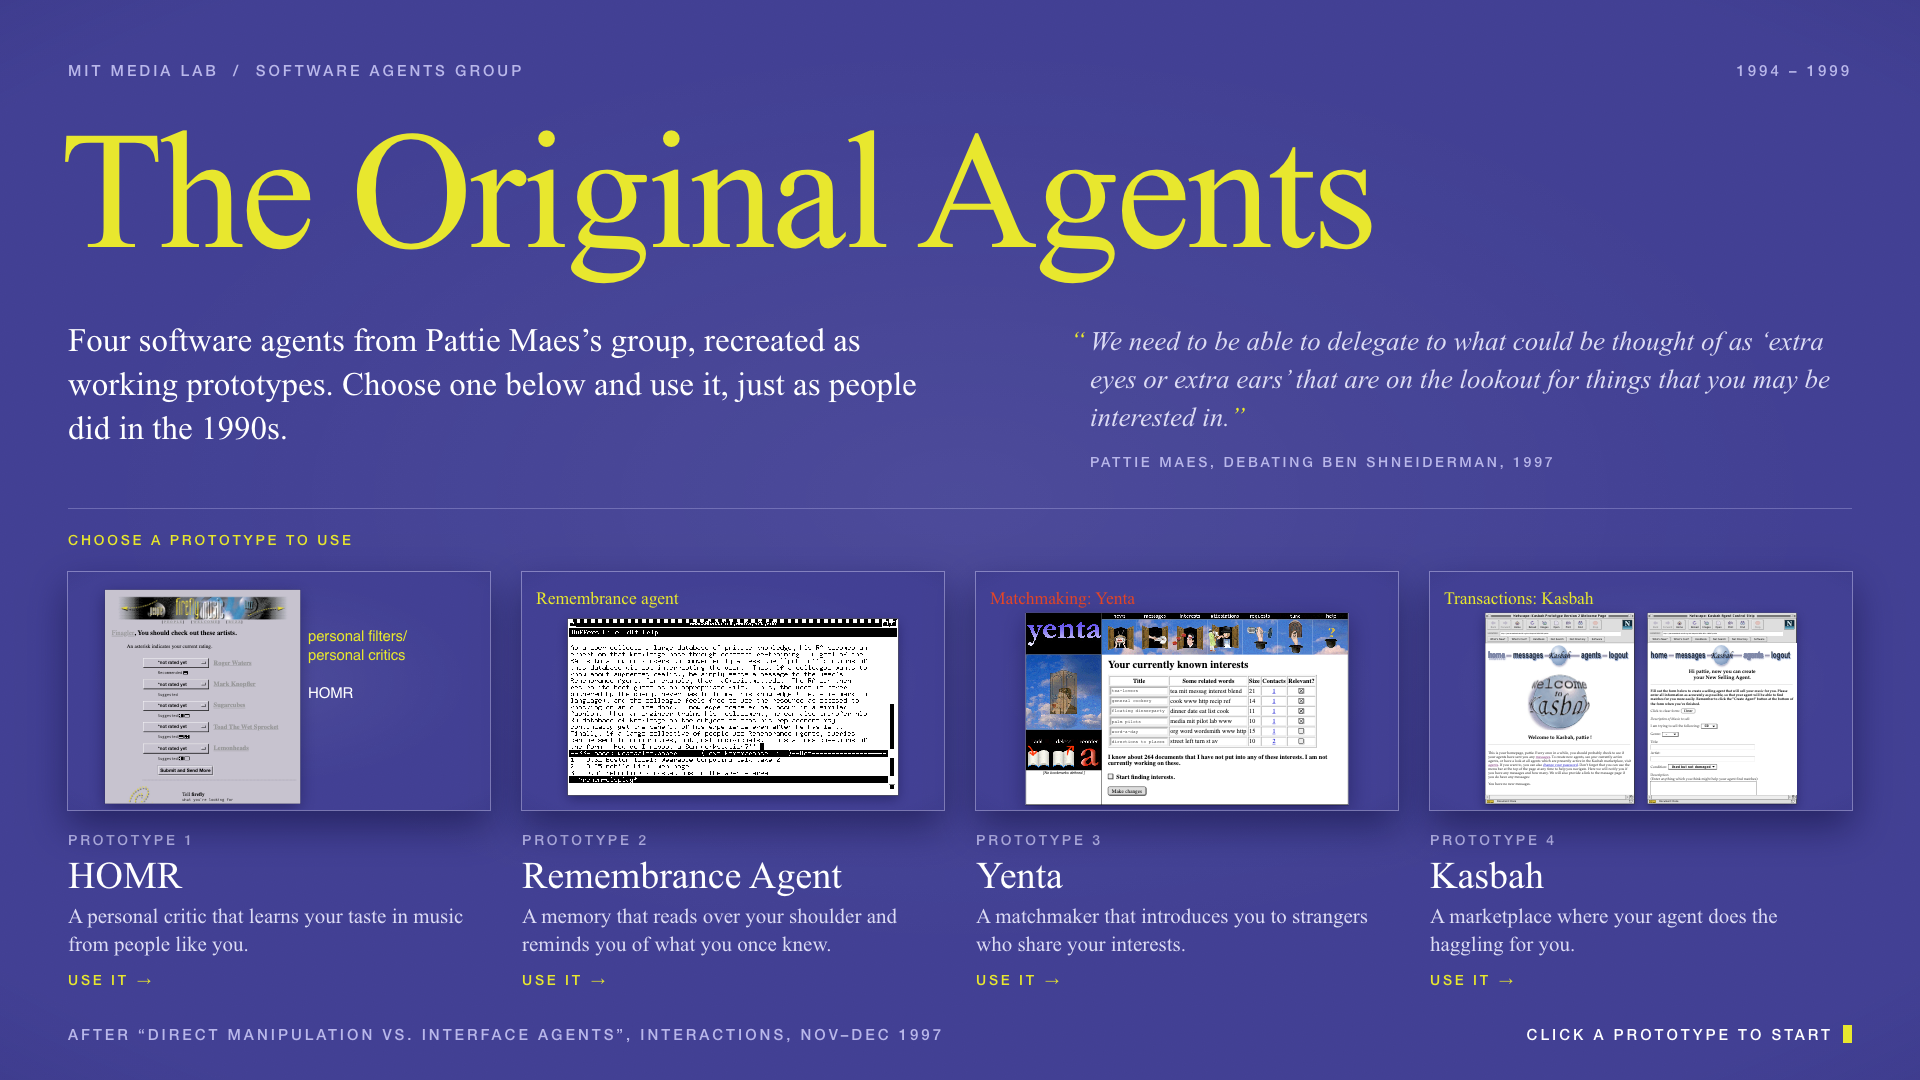
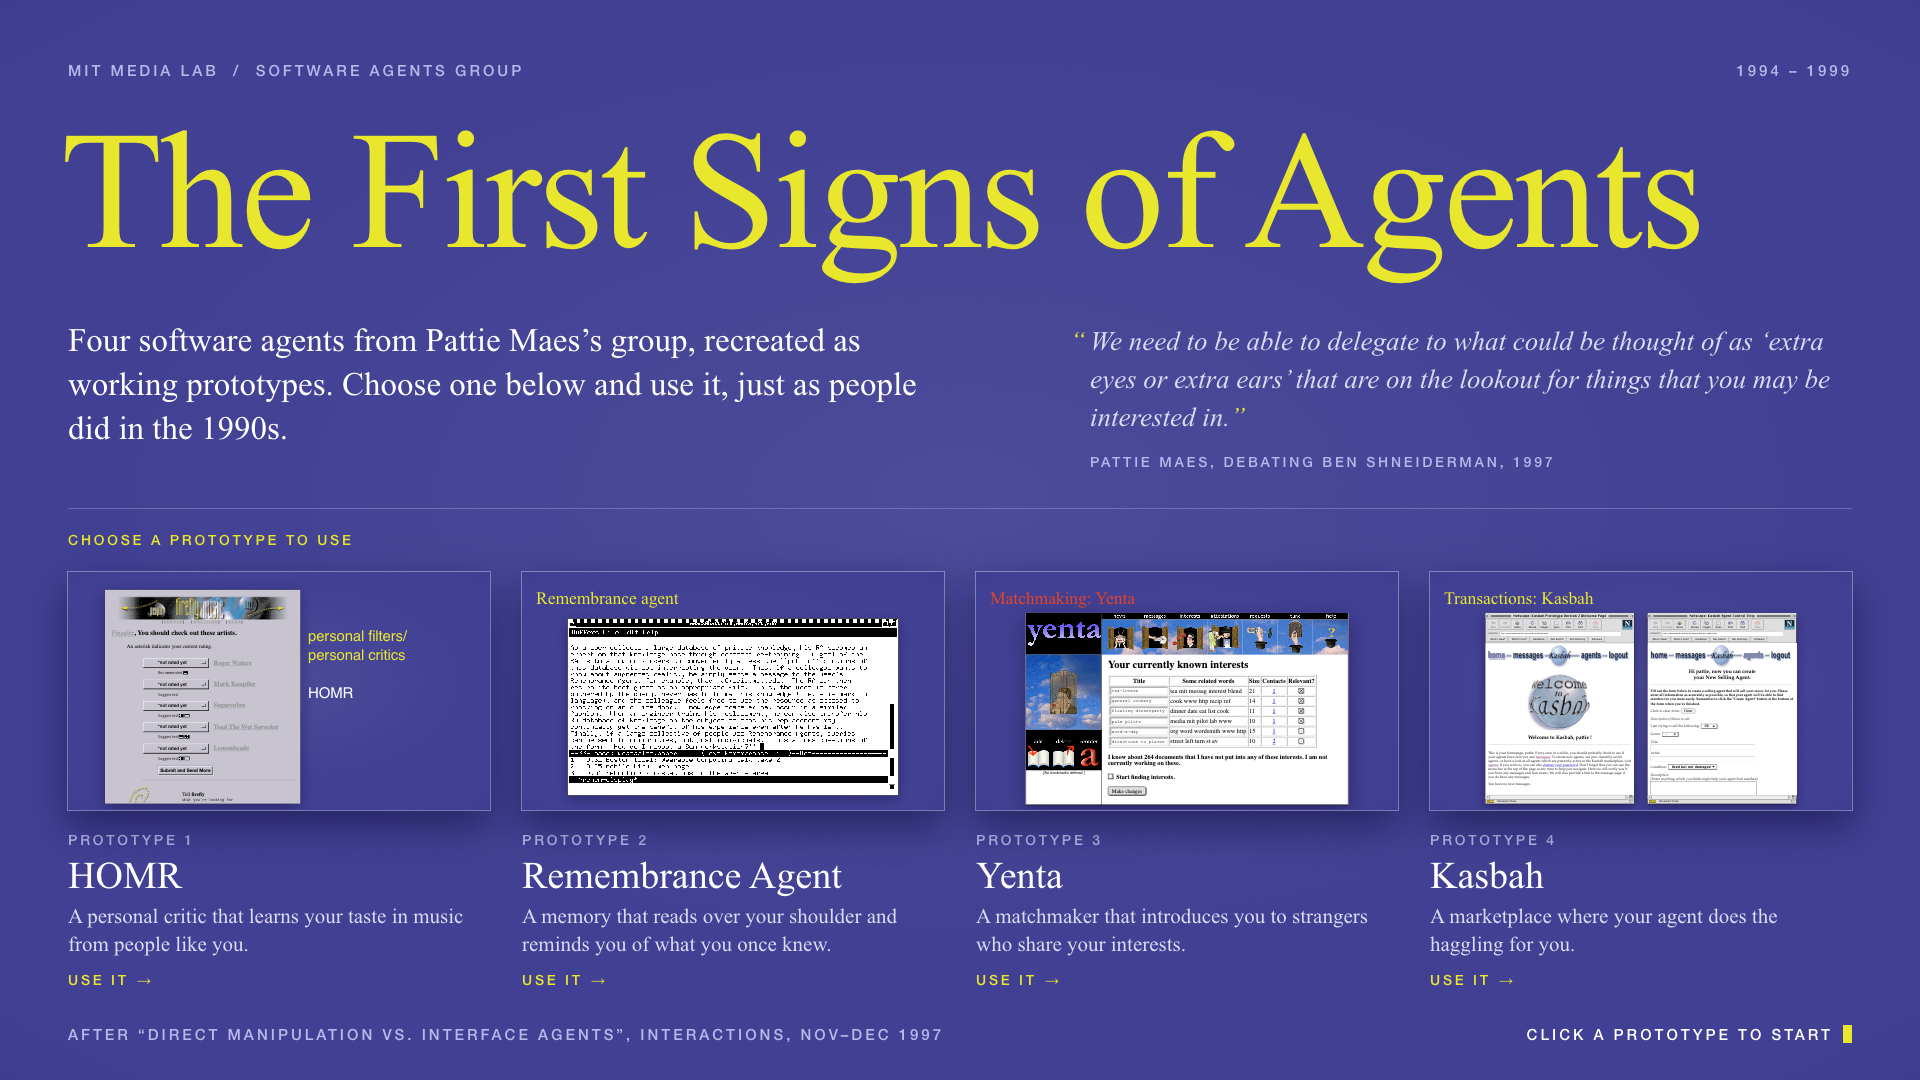
Rename the exhibit to The First Signs of Agents
The new name is on both start pages, the "back" link on every prototype,
the page titles and the README, whose start-page screenshot is retaken.

Changed region(s): [[0.1875, 0.1222, 0.9062, 0.275]]

diff --git a/classic/server.js b/classic/server.js
@@ -88,7 +88,7 @@ function band(agent, req) {
   return '<table border="0" cellspacing="0" cellpadding="0" width="100%" bgcolor="' + C.indigo + '"><tr><td>' +
     '<table border="0" cellspacing="0" cellpadding="0" width="100%"><tr>' +
     '<td width="16">' + spacer(16, 1) + '</td>' +
-    '<td valign="top" nowrap>' + spacer(1, 7) + '<br>' + cap(link(BASE + '/', '&laquo;&nbsp;THE ORIGINAL AGENTS')) + '</td>' +
+    '<td valign="top" nowrap>' + spacer(1, 7) + '<br>' + cap(link(BASE + '/', '&laquo;&nbsp;THE FIRST SIGNS OF AGENTS')) + '</td>' +
     '<td valign="top" align="right" nowrap>' + spacer(1, 7) + '<br>' +
     cap(link(BASE + '/' + agent.key + '/', 'START OVER') + ' &nbsp; &nbsp; &nbsp; ' + link(BASE + '/' + prev.key + '/', '&laquo;') + ' &nbsp; ' +
       '<font color="#ffffff">' + (i + 1) + '</font> / ' + n + ' &nbsp; ' + link(BASE + '/' + next.key + '/', '&raquo;')) + '</td>' +
@@ -143,7 +143,7 @@ function startPage(req) {
     '<table border="0" cellspacing="0" cellpadding="0" width="100%"><tr>' +
     '<td>' + spacer(1, 16) + '<br>' + cap('MIT MEDIA LAB &nbsp;/&nbsp; SOFTWARE AGENTS GROUP') + '</td>' +
     '<td align="right">' + spacer(1, 16) + '<br>' + cap('1994 - 1999') + '</td></tr></table>' +
-    spacer(1, 8) + '<br><font face="Times" size="7" class="big" color="' + C.yellow + '">The Original Agents</font><br>' + spacer(1, 10) + '<br>' +
+    spacer(1, 8) + '<br><font face="Times" size="7" class="big" color="' + C.yellow + '">The First Signs of Agents</font><br>' + spacer(1, 10) + '<br>' +
     '<table border="0" cellspacing="0" cellpadding="0" width="100%"><tr>' +
     '<td valign="top" width="50%"><font face="Times" size="4" class="lede" color="#ffffff">Four software agents from Pattie Maes’s group, recreated as working prototypes. Choose one below and use it, just as people did in the 1990s.</font></td>' +
     '<td width="40">' + spacer(40, 1) + '</td>' +
@@ -154,7 +154,7 @@ function startPage(req) {
     '<table border="0" cellspacing="0" cellpadding="0" width="100%"><tr>' + cols + '</tr></table>' +
     spacer(1, 14) + '<br>' + cap('AFTER "DIRECT MANIPULATION VS. INTERFACE AGENTS", INTERACTIONS, NOV-DEC 1997') + '<br>' + spacer(1, 10) +
     '</td><td width="22">' + spacer(22, 1) + '</td></tr></table>';
-  return document_(req, { title: 'The Original Agents', css: css, html: html });
+  return document_(req, { title: 'The First Signs of Agents', css: css, html: html });
 }
 
 // ---- HTTP --------------------------------------------------------------------------

diff --git a/index.html b/index.html
@@ -2,7 +2,7 @@
 <html lang="en">
 <head>
 <meta charset="utf-8">
-<title>The Original Agents</title>
+<title>The First Signs of Agents</title>
 <meta name="viewport" content="width=device-width, initial-scale=1">
 <link rel="stylesheet" href="css/shell.css">
 <style>
@@ -54,7 +54,7 @@
   <div class="kicker">MIT Media Lab &nbsp;/&nbsp; Software Agents Group</div>
   <div class="years">1994 &ndash; 1999</div>
 
-  <h1 class="deck-title">The Original Agents</h1>
+  <h1 class="deck-title">The First Signs of Agents</h1>
   <p class="lede">Four software agents from Pattie Maes&rsquo;s group, recreated as working prototypes. Choose one below and use it, just as people did in the 1990s.</p>
 
   <blockquote class="quote">

diff --git a/js/shell.js b/js/shell.js
@@ -33,7 +33,7 @@
     var back = document.createElement('a');
     back.className = 'deck-back';
     back.href = 'index.html';
-    back.innerHTML = '<span class="arrow">&larr;</span>The Original Agents';
+    back.innerHTML = '<span class="arrow">&larr;</span>The First Signs of Agents';
     stage.appendChild(back);
 
     var count = document.createElement('div');

diff --git a/kasbah.html b/kasbah.html
@@ -2,7 +2,7 @@
 <html lang="en">
 <head>
 <meta charset="utf-8">
-<title>Kasbah — The Original Agents</title>
+<title>Kasbah — The First Signs of Agents</title>
 <meta name="viewport" content="width=device-width, initial-scale=1">
 <link rel="stylesheet" href="css/shell.css">
 <link rel="stylesheet" href="css/kasbah.css">

diff --git a/yenta.html b/yenta.html
@@ -2,7 +2,7 @@
 <html lang="en">
 <head>
 <meta charset="utf-8">
-<title>Yenta — The Original Agents</title>
+<title>Yenta — The First Signs of Agents</title>
 <meta name="viewport" content="width=device-width, initial-scale=1">
 <link rel="stylesheet" href="css/shell.css">
 <link rel="stylesheet" href="css/yenta.css">

diff --git a/homr.html b/homr.html
@@ -2,7 +2,7 @@
 <html lang="en">
 <head>
 <meta charset="utf-8">
-<title>HOMR — The Original Agents</title>
+<title>HOMR — The First Signs of Agents</title>
 <meta name="viewport" content="width=device-width, initial-scale=1">
 <link rel="stylesheet" href="css/shell.css">
 <link rel="stylesheet" href="css/homr.css">

diff --git a/remembrance.html b/remembrance.html
@@ -2,7 +2,7 @@
 <html lang="en">
 <head>
 <meta charset="utf-8">
-<title>Remembrance Agent — The Original Agents</title>
+<title>Remembrance Agent — The First Signs of Agents</title>
 <meta name="viewport" content="width=device-width, initial-scale=1">
 <link rel="stylesheet" href="css/shell.css">
 <style>

diff --git a/README.md b/README.md
@@ -1,8 +1,8 @@
-# The Original Agents
+# The First Signs of Agents
 
 **Four software agents from Pattie Maes's Software Agents Group at the MIT Media Lab (1994–1999), recreated as working prototypes you can use in a browser.**
 
-![The start page: "The Original Agents" in yellow on indigo, with live previews of HOMR, the Remembrance Agent, Yenta and Kasbah below](screenshots/index.png)
+![The start page: "The First Signs of Agents" in yellow on indigo, with live previews of HOMR, the Remembrance Agent, Yenta and Kasbah below](screenshots/index.png)
 
 This was made as a keyboard-and-mouse exhibit for an MIT Media Lab alumni event. Each prototype is drawn to match the original interface as it appears in the published figures, mainly those in Shneiderman and Maes's 1997 *interactions* debate, "Direct Manipulation vs. Interface Agents". Behind each screen is a small working version of the idea, so visitors can do a few real things with each agent instead of only looking at a picture of it.
 
